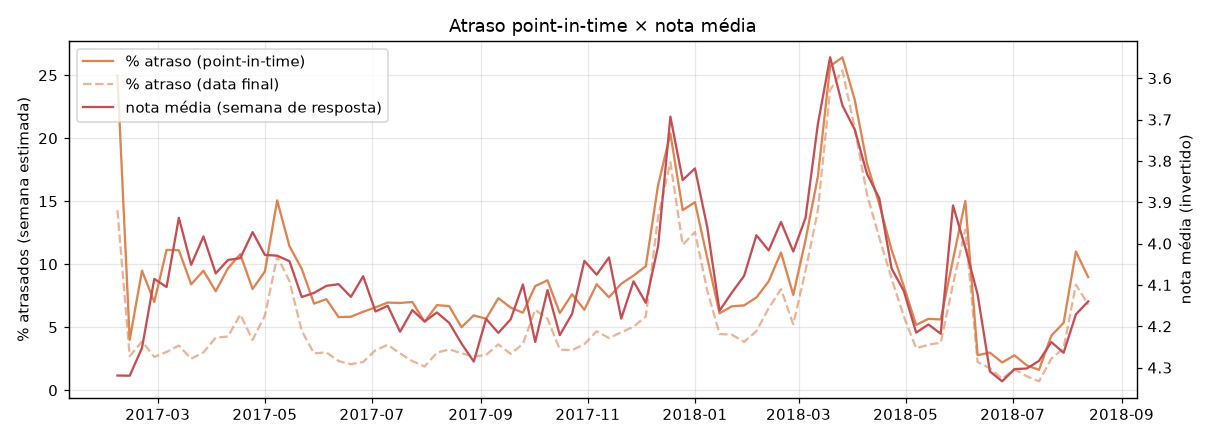
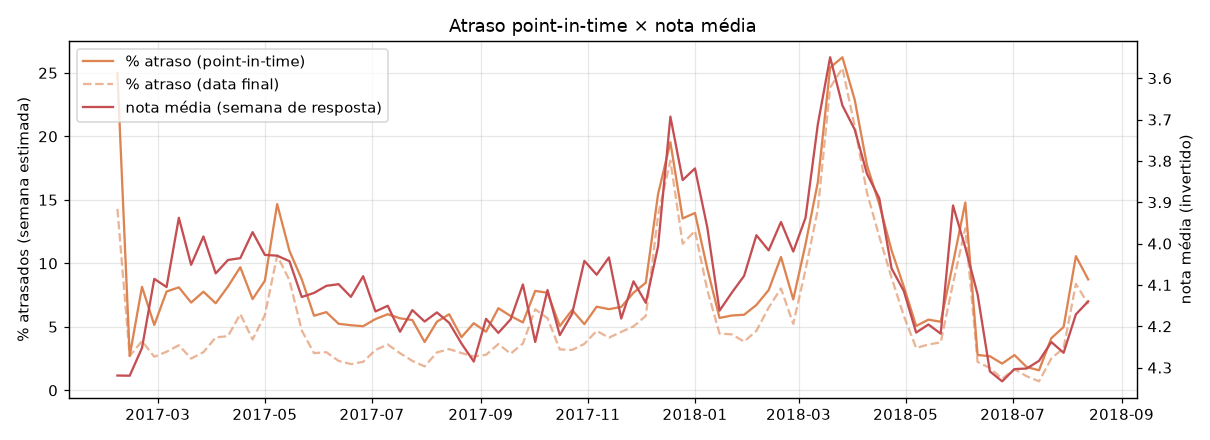
Fase 2: decisões do usuário e D-026 completo antes da Fase 7
- sinal de atraso point-in-time exclui os pedidos sem itens (D-030);
  relatório da Fase 1 regenerado (conclusão "mesma semana" mantida)
- relatório do gold set mostra a taxa de ambiguidade total e por split;
  itens ambíguos ficam fora das métricas principais (D-031)
- D-026: definição numérica de "acima do normal" e períodos congelados
  (calibração 2017, avaliação 2018)
- D-032: na Fase 6, avaliar classificar tudo com o LLM (retomável, cache)

diff --git a/src/data/stats.py b/src/data/stats.py
@@ -430,7 +430,8 @@ def main() -> None:
         f"### 9.1 Semanas com taxa nacional de atraso ≥ 2× a mediana ({pct(base)})",
         "",
         "Atraso **point-in-time** (seção 11): coorte com data estimada na semana, conhecida "
-        "ao fim dela; pedidos nunca entregues contam como atrasados. Semanas com ≥ 200 "
+        "ao fim dela; pedidos nunca entregues contam como atrasados e pedidos sem itens "
+        "registrados ficam fora (D-030). Semanas com ≥ 200 "
         "pedidos vencidos; nota média e fração de notas ≤ 2 das avaliações respondidas na "
         "mesma semana. As seções 9.2 a 9.4 usam `orders.is_late` (data final de entrega): "
         "são descrições retrospectivas, não sinais do backtest.",
@@ -619,7 +620,8 @@ def _pit_section(
         "estimada de t a t + 6, avaliada em t + 7 dias, usando só entregas anteriores a esse "
         "instante. Para essa coorte o atraso já está decidido em t + 7 (o dia estimado passou), "
         "então a diferença para a série pela data final está no denominador: pedidos nunca "
-        "entregues contam como atrasados em vez de ficarem de fora.",
+        "entregues contam como atrasados em vez de ficarem de fora. Pedidos sem itens "
+        "registrados (artefato do dataset) são excluídos do sinal (D-030).",
         "",
         f"- Diferença point-in-time − data final, por semana: média {diff_pp.mean():+.2f} p.p., "
         f"máxima {diff_pp.max():+.2f} p.p.; correlação entre as séries: {corr_ff:.3f}.",

diff --git a/src/labeling/report.py b/src/labeling/report.py
@@ -27,6 +27,17 @@ def score_weights(sample: pd.DataFrame, population_share: pd.Series) -> pd.Serie
     return (population_share / sample_share).rename("peso")
 
 
+def ambiguity_line(df: pd.DataFrame) -> str:
+    """Contagem e taxa de ambiguidade no total e por split."""
+    amb = df["causa"] == AMBIGUOUS
+    parts = [f"{int(amb.sum())} de {len(df)} ({pct(amb.mean())})"]
+    for split in ("dev", "test"):
+        m = df["split"] == split
+        if m.any():
+            parts.append(f"{split} {int(amb[m].sum())}/{int(m.sum())} ({pct(amb[m].mean())})")
+    return "; ".join(parts)
+
+
 def class_table(df: pd.DataFrame, weights: pd.Series) -> pd.DataFrame:
     """Contagem por classe e split, mais a proporção reponderada (todos os itens não ambíguos)."""
     order = [*CAUSES, AMBIGUOUS]
@@ -93,7 +104,8 @@ def main() -> None:
         "_Gerado por `python -m src.labeling.report`. Não edite à mão._",
         "",
         f"- Rotulados: **{len(df)} de {len(sample)}** (faltam {missing}).",
-        f"- Ambíguos / não sei: {int((df['causa'] == AMBIGUOUS).sum())}.",
+        f"- Ambíguos / não sei: {ambiguity_line(df)}. Ficam fora das métricas principais e "
+        "são reportados à parte (D-028).",
         f"- Classes com poucos exemplos (< {FEW_DEV} no dev ou < {FEW_TEST} no test): "
         f"{', '.join(f'`{c}`' for c in few) or 'nenhuma'}.",
         "",

diff --git a/tests/test_point_in_time.py b/tests/test_point_in_time.py
@@ -2,6 +2,9 @@
 
 from __future__ import annotations
 
+import sqlite3
+from pathlib import Path
+
 import pandas as pd
 import pytest
 
@@ -102,3 +105,16 @@ def test_weekly_rate_by_group() -> None:
     out = weekly_due_late_rate(df, ["2018-03-05"], group_col="customer_state")
     rates = dict(zip(out["customer_state"], out["late_rate"], strict=True))
     assert rates == {"RJ": 0.0, "SP": 0.5}
+
+
+def test_load_orders_excludes_orders_without_items(tmp_path: Path) -> None:
+    from src.data.build import build_tables
+    from src.data.database import write_database
+    from src.data.point_in_time import load_orders
+    from tests.test_data import make_raw
+
+    db = tmp_path / "radar.db"
+    write_database(build_tables(make_raw()), db)  # o3 não tem itens
+    df = load_orders(sqlite3.connect(db))
+    assert sorted(df["order_id"]) == ["o1", "o2"]
+    assert pd.api.types.is_datetime64_any_dtype(df["estimated_delivery_date"])

diff --git a/src/data/point_in_time.py b/src/data/point_in_time.py
@@ -26,10 +26,15 @@ LATE_STATUSES = (DELIVERED_LATE, OPEN_LATE)
 
 
 def load_orders(con: sqlite3.Connection) -> pd.DataFrame:
-    """Colunas necessárias do banco, com datas convertidas."""
+    """Pedidos que entram no sinal, com datas convertidas.
+
+    Exclui pedidos sem itens registrados (775 no banco, 686 na janela de análise; D-030): são
+    um artefato do dataset, quase todos `unavailable`, que nunca podem ser entregues. Os itens
+    são registrados na compra, então o filtro não usa informação futura.
+    """
     df = pd.read_sql(
         "SELECT order_id, customer_state, purchase_ts, delivered_customer_ts, "
-        "estimated_delivery_date FROM orders",
+        "estimated_delivery_date FROM orders WHERE n_items > 0",
         con,
     )
     for col in ("purchase_ts", "delivered_customer_ts", "estimated_delivery_date"):

diff --git a/tests/test_labeling.py b/tests/test_labeling.py
@@ -181,3 +181,12 @@ def test_report_reweights_by_population_score_share() -> None:
     assert t.loc["atraso_entrega", "% reponderado"] == "33.3%"
     assert t.loc["elogio", "% reponderado"] == "66.7%"
     assert t.loc["atraso_entrega", "área (D-027)"] == "logistica"
+
+
+def test_report_ambiguity_rate_overall_and_by_split() -> None:
+    from src.labeling.report import ambiguity_line
+
+    df = pd.DataFrame(
+        {"split": ["dev", "dev", "test", "test"], "causa": [AMBIGUOUS, "elogio", "elogio", "outro"]}
+    )
+    assert ambiguity_line(df) == "1 de 4 (25.0%); dev 1/2 (50.0%); test 0/2 (0.0%)"

diff --git a/docs/decisoes.md b/docs/decisoes.md
@@ -312,23 +312,26 @@ Números citados abaixo vêm de `reports/fase1_dados.md` (`python -m src.data.st
   - na série semanal (gráfico e tabela 9.1), que foi trocada pela versão point-in-time.
 - **Diferença entre as séries.** Para a coorte da semana estimada, o atraso já está decidido
   em *t* + 7. As duas séries só diferem no denominador: na point-in-time, pedidos nunca
-  entregues contam como atrasados. Diferença média de +3,19 p.p. por semana, máxima de
-  +10,71 p.p., correlação de 0,948 (`reports/fase1_dados.md`, seção 11).
+  entregues contam como atrasados.
+  - Já com a exclusão de D-030: diferença média de +2,38 p.p. por semana, máxima de
+    +10,71 p.p., correlação de 0,967 (`reports/fase1_dados.md`, seção 11).
+  - Antes da exclusão: +3,19 p.p. de média e correlação de 0,948.
 - **A conclusão "mesma semana" se mantém e fica mais forte.** Nos 3 eventos, a menor nota
   média e a maior fração de notas ≤ 2 caem na mesma semana do pico de atraso point-in-time
   (dez/2017) ou uma semana antes (mar–abr/2018 e mai–jun/2018). A correlação mais negativa
-  entre atraso em *t* e nota em *t* + *k* está em *k* = −1 (−0,765), praticamente igual a
-  *k* = 0 (−0,757). No agregado nacional, a nota não atrasa em relação ao sinal objetivo.
+  entre atraso em *t* e nota em *t* + *k* está em *k* = −1 (−0,772), próxima de *k* = 0
+  (−0,744); antes de D-030, eram −0,765 e −0,757. No agregado nacional, a nota não atrasa
+  em relação ao sinal objetivo.
   Hipótese não verificada: avaliações de pedidos atrasados de coortes anteriores chegam
   enquanto a coorte da semana ainda está vencendo.
-- **Ponto em aberto, decisão do usuário:**
+- **Ponto que estava em aberto, resolvido em D-030:**
   - Os pedidos nunca entregues incluem 686 sem itens registrados (artefato do dataset, quase
     todos `unavailable`) e cancelados.
   - Eles são 3% a 7% da coorte em 2017 e 1,4% a 2,8% em 2018, o que eleva o nível da série
     em 2017.
   - **Proposta:** excluir do sinal os pedidos sem itens. Como os itens são registrados na
     compra, isso não gera vazamento.
-  - Não foi aplicado sem aprovação.
+  - Aprovado e aplicado (D-030).
 
 ### D-026 · Definição de incidente e linhas de base, fixadas antes da Fase 7
 Escrita antes de existir qualquer detector. Qualquer mudança posterior exige nova entrada
@@ -341,29 +344,72 @@ com o motivo e os resultados antes e depois da mudança.
 - Usar o volume da janela inteira é uma escolha retrospectiva. Ela afeta quais segmentos são
   monitorados, não quando eles alertam.
 
-**Períodos:**
-- Semanas de 2017-02-06 a 2018-08-13, fim da série de atraso sem censura (D-020).
-- Calibração: 2017-02-06 a 2017-10-30. Avaliação: 2017-11-06 a 2018-08-13.
-- Os limiares de todos os métodos são escolhidos só na calibração.
+**Congelamento.** Versão final registrada em 2026-10-18, antes de existir qualquer detector.
+Os parâmetros abaixo são fixos: não são ajustados em nenhum período, nem de calibração, nem
+de avaliação. Uma versão anterior desta entrada usava outro corte de períodos (calibração até
+2017-10-30); foi trocada antes de qualquer detector existir, pelo motivo explicado em
+"Períodos".
+
+**Períodos** (fixos; não serão alterados depois de ver resultados):
+
+| Período | Semanas (segunda-feira) | Uso |
+|---|---|---|
+| Calibração | 2017-02-06 a 2017-12-25 (47 semanas) | ajustar limiares e hiperparâmetros do detector e das linhas de base |
+| Avaliação | 2018-01-01 a 2018-08-13 (33 semanas) | medir recall, antecedência e falsos alarmes; nada é ajustado aqui |
+
+- **Por que o corte por ano:** a versão anterior (calibração até 2017-10-30) foi escolhida
+  sabendo onde caíam os eventos vistos na Fase 1. O corte por ano não depende dessa
+  informação. Consequência aceita: o evento de dez/2017 fica na calibração.
+- **O fim** em 2018-08-13 é o da série de atraso sem censura (D-020).
+- **Incidente que cruza o corte** pertence ao período da sua semana de início. Incidentes
+  iniciados na calibração ficam fora das métricas de avaliação. As semanas deles que caem em
+  2018 também não contam para falsos alarmes: alertas ali não são falsos nem acertos.
+- **Histórico:** detectores e linhas de base podem usar semanas de calibração como histórico
+  ao rodar na avaliação, sempre point-in-time.
+- **O que é escolhido só na calibração:** limiares, comprimento de janela, método estatístico
+  e quais causas compõem cada sinal. O conjunto de avaliação é usado uma única vez, ao final
+  da Fase 7.
 
 **Gabarito × detectores.** Os rótulos de incidente são gabarito: podem usar o histórico
 inteiro, porque nenhum detector os vê. Detectores e linhas de base usam só dados
-point-in-time (D-019, D-025).
+point-in-time (D-019, D-025, D-030).
 
-**Semana anômala** (regra comum), para uma série de proporção *p* com *n* observações na
-semana *t* do segmento *s*:
-- referência *b* = mediana de *p* nas 26 semanas anteriores a *t*, com no mínimo 8 semanas
-  com dados;
-- a semana é anômala se *n* ≥ *n_min*, *p* > max(2·*b*, *b* + 5 p.p.) e o limite inferior do
-  intervalo de Wilson de 95% de *p* > *b*.
+**"Acima do normal": definição numérica.** Para uma série de proporção *p* com *n*
+observações na semana *t* do segmento *s*:
+
+1. **Referência:** *b* = mediana de *p* nas semanas *u* ∈ [*t* − 26, *t* − 1] com *n* ≥
+   *n_min*.
+   - Exige no mínimo 8 dessas semanas; sem elas, a semana *t* não pode ser anômala.
+   - Como só olha para trás, a referência também é point-in-time.
+2. **Anômala:** a semana é anômala se valem as três condições:
+   - *n* ≥ *n_min*;
+   - *p* > max(2·*b*, *b* + 0,05);
+   - *L* > *b*, em que *L* é o limite inferior do intervalo de Wilson de 95% para *p*:
+
+     *L* = (*p* + *z*²/2*n* − *z*·√(*p*(1 − *p*)/*n* + *z*²/4*n*²)) / (1 + *z*²/*n*),
+     com *z* = 1,96.
+3. **Volume baixo:** semanas com *n* < *n_min* não são anômalas e contam como semanas normais
+   para a regra de junção.
+
+Limiar de *p* conforme a referência (antes do teste de Wilson):
+
+| *b* | 0% | 3% | 5% | 10% | 20% |
+|---|---|---|---|---|---|
+| limiar | 5% | 8% | 10% | 20% | 40% |
+
+Por que esses parâmetros (escolhidos a priori, não ajustados):
+- **2× com piso de 5 p.p.:** exige um efeito relativo e um efeito absoluto mínimos.
+- **Wilson:** evita disparos por volume baixo.
+- **Mediana de 26 semanas:** cobre meio ano de "normal" e resiste a incidentes de até cerca
+  de 12 semanas.
 
 **Incidente:** sequência de ≥ 2 semanas anômalas consecutivas, do mesmo segmento e tipo.
-Sequências separadas por uma única semana normal são unidas. O início é a primeira semana; o
-fim, a última.
+Sequências separadas por uma única semana não anômala são unidas. O início é a primeira
+semana anômala; o fim, a última.
 
 | Tipo | *p* | *n* | *n_min* |
 |---|---|---|---|
-| A — atraso | taxa de atraso point-in-time da coorte com data estimada na semana (D-025) | pedidos da coorte | 30 |
+| A — atraso | taxa de atraso point-in-time da coorte com data estimada na semana (D-025, D-030) | pedidos da coorte | 30 |
 | B — insatisfação não ligada a atraso | fração de notas ≤ 2 entre as avaliações respondidas na semana de pedidos entregues no prazo (`is_late = 0`; retrospectivo, permitido no gabarito) | essas avaliações | 20 |
 
 **Métodos comparados.** Todos usam a mesma regra de alerta e são calibrados para o mesmo
@@ -378,12 +424,13 @@ orçamento de falsos alarmes:
   - No tipo B, mostra o que um monitor de logística não vê.
 
 **Orçamento de falsos alarmes:**
-- Na calibração, cada método usa o limiar mais sensível que mantém no máximo 1 falso alarme
-  por semana, somando todos os segmentos monitorados.
+- Na calibração (2017), cada método usa o limiar mais sensível que mantém no máximo 1
+  falso alarme por semana, somando todos os segmentos monitorados. Esse limiar é levado sem
+  mudança para a avaliação (2018).
 - Também é reportada a curva recall × falsos alarmes por semana para vários limiares, para
   que a conclusão não dependa de um único ponto.
 
-**Métricas** (período de avaliação):
+**Métricas** (só no período de avaliação, 2018):
 - **Casamento:** um alerta do método *m* no segmento *s* na semana *w* casa com o incidente
   *i* de *s* se *w* ∈ [início − 4, fim]. A semana de detecção *d_m(i)* é a do primeiro alerta
   que casa.
@@ -457,8 +504,7 @@ A área não é rotulada nem prevista; é derivada da causa (`src/taxonomy.py`, 
 **Uso nas métricas:**
 - As métricas são reponderadas pela distribuição real das notas entre os comentários. O peso
   de cada nota é a participação dela no universo dividida por 0,2 (`src/labeling/report.py`).
-- **Proposta:** itens "ambíguo" ficam fora das métricas principais e são reportados à parte.
-  O usuário pode mudar isso.
+- Itens "ambíguo" ficam fora das métricas principais e são reportados à parte (D-031).
 
 **Versionamento:** `data/gold/` é versionado, com IDs e rótulos e sem textos.
 
@@ -467,3 +513,33 @@ A área não é rotulada nem prevista; é derivada da causa (`src/taxonomy.py`, 
   classificador.
 - **Risco a medir na Fase 3:** o modelo pode usar a nota como atalho (por exemplo, nota 5 →
   `elogio`), errando casos como o extravio com nota 5 visto na amostra da taxonomia.
+
+### D-030 · Pedidos sem itens ficam fora do sinal de atraso
+- **Decidido pelo usuário (2026-10-18).** O sinal point-in-time (`load_orders` em
+  `src/data/point_in_time.py`) exclui os pedidos com `n_items = 0`. São 775 no banco e 686 na
+  janela de análise: 599 `unavailable`, 82 `canceled` e 5 `created`.
+- **Motivo:** são um artefato do dataset (o pedido não tem item registrado) e nunca podem ser
+  entregues; sem a exclusão, inflavam a série de 2017. Os itens são registrados na compra,
+  então o filtro não usa informação futura. Há teste para isso.
+- **Efeito:** ver os números de D-025.
+- **O que não muda:** as tabelas retrospectivas (`orders.is_late`) e o banco não são
+  afetados; os pedidos continuam lá.
+
+### D-031 · Itens "ambíguo" no gold set
+- **Decidido pelo usuário (2026-10-18).** Itens rotulados "ambíguo / não sei" ficam fora das
+  métricas principais do classificador (Fases 3 a 5) e são reportados à parte.
+- **O que é reportado:**
+  - a taxa de ambiguidade, no total e por split (`src/labeling/report.py`);
+  - na avaliação, o que cada classificador previu nesses itens.
+
+### D-032 · Nota para a Fase 6: avaliar classificar tudo com o LLM
+- Com 0,47 s por chamada sem raciocínio (D-024), classificar os 41.281 comentários com o LLM
+  ficaria na ordem de horas, não de dias.
+- **Na Fase 6, avaliar essa opção contra a híbrida de D-015.** Requisitos:
+  - execução retomável, com o cache em disco como ponto de retomada: cada item já
+    classificado é um acerto de cache;
+  - estimativa de tempo com os segundos por chamada medidos no dev com o prompt real, mais o
+    pior caso de 2 tentativas por item;
+  - OK do usuário antes de rodar (regra das 50 chamadas).
+- A escolha leva em conta a qualidade medida na Fase 5. Se o LLM não for melhor que o
+  baseline no test set, rodá-lo em tudo não se justifica.

diff --git a/reports/fase1_dados.md b/reports/fase1_dados.md
@@ -184,19 +184,24 @@ Para cada tipo de segmento: quantos segmentos têm volume médio semanal ≥ k n
 
 Exploração descritiva para escolher estudos de caso; **não** é a definição de incidente do backtest (Fase 7). Taxa de atraso por semana da data estimada de entrega (o atraso só é observável depois dela), até a semana 2018-08-13 (seção 6.1).
 
-### 9.1 Semanas com taxa nacional de atraso ≥ 2× a mediana (7.6%)
+### 9.1 Semanas com taxa nacional de atraso ≥ 2× a mediana (6.6%)
 
-Atraso **point-in-time** (seção 11): coorte com data estimada na semana, conhecida ao fim dela; pedidos nunca entregues contam como atrasados. Semanas com ≥ 200 pedidos vencidos; nota média e fração de notas ≤ 2 das avaliações respondidas na mesma semana. As seções 9.2 a 9.4 usam `orders.is_late` (data final de entrega): são descrições retrospectivas, não sinais do backtest.
+Atraso **point-in-time** (seção 11): coorte com data estimada na semana, conhecida ao fim dela; pedidos nunca entregues contam como atrasados e pedidos sem itens registrados ficam fora (D-030). Semanas com ≥ 200 pedidos vencidos; nota média e fração de notas ≤ 2 das avaliações respondidas na mesma semana. As seções 9.2 a 9.4 usam `orders.is_late` (data final de entrega): são descrições retrospectivas, não sinais do backtest.
 
 | semana | pedidos_vencidos | frac_atraso | nota_média | frac_neg |
 |---|---|---|---|---|
-| 2017-12-11 | 1836 | 16.3% | 4.01 | 16.7% |
-| 2017-12-18 | 2224 | 20.4% | 3.69 | 24.5% |
-| 2018-03-12 | 2260 | 16.9% | 3.71 | 24.1% |
-| 2018-03-19 | 2134 | 25.7% | 3.55 | 27.0% |
-| 2018-03-26 | 1491 | 26.4% | 3.67 | 25.5% |
-| 2018-04-02 | 1713 | 23.1% | 3.72 | 24.0% |
-| 2018-04-09 | 1789 | 18.0% | 3.83 | 20.8% |
+| 2017-05-08 | 641 | 14.7% | 4.03 | 15.7% |
+| 2017-12-11 | 1818 | 15.5% | 4.01 | 16.7% |
+| 2017-12-18 | 2201 | 19.5% | 3.69 | 24.5% |
+| 2017-12-25 | 1463 | 13.5% | 3.85 | 20.8% |
+| 2018-01-01 | 1246 | 14.0% | 3.82 | 21.5% |
+| 2018-03-12 | 2245 | 16.4% | 3.71 | 24.1% |
+| 2018-03-19 | 2125 | 25.4% | 3.55 | 27.0% |
+| 2018-03-26 | 1487 | 26.2% | 3.67 | 25.5% |
+| 2018-04-02 | 1709 | 22.9% | 3.72 | 24.0% |
+| 2018-04-09 | 1783 | 17.7% | 3.83 | 20.8% |
+| 2018-04-16 | 1590 | 14.7% | 3.89 | 20.0% |
+| 2018-06-04 | 1839 | 14.8% | 4.01 | 15.8% |
 
 ### 9.2 Taxa de atraso (%) por estado do cliente e mês da data estimada
 
@@ -260,10 +265,10 @@ Busca por expressões regulares no texto (não é classificação nem rótulo), 
 
 **Auditoria.** `orders.is_late` usa a data final de entrega. Foi usado nas seções 6 (nota por situação de entrega), 9.2–9.4 (estado e vendedor por mês) e 10 (desfecho dos textos “não recebi”), que são descrições retrospectivas. A série semanal da Fase 1 (gráfico e tabela 9.1) também usava `is_late`, indexada pela semana estimada; agora usa a versão point-in-time.
 
-**Versão point-in-time** (`src/data/point_in_time.py`): para a semana t, coorte com data estimada de t a t + 6, avaliada em t + 7 dias, usando só entregas anteriores a esse instante. Para essa coorte o atraso já está decidido em t + 7 (o dia estimado passou), então a diferença para a série pela data final está no denominador: pedidos nunca entregues contam como atrasados em vez de ficarem de fora.
+**Versão point-in-time** (`src/data/point_in_time.py`): para a semana t, coorte com data estimada de t a t + 6, avaliada em t + 7 dias, usando só entregas anteriores a esse instante. Para essa coorte o atraso já está decidido em t + 7 (o dia estimado passou), então a diferença para a série pela data final está no denominador: pedidos nunca entregues contam como atrasados em vez de ficarem de fora. Pedidos sem itens registrados (artefato do dataset) são excluídos do sinal (D-030).
 
-- Diferença point-in-time − data final, por semana: média +3.19 p.p., máxima +10.71 p.p.; correlação entre as séries: 0.948.
-- Atrasados ainda em aberto ao fim da semana estimada: 7305 de 9113 (80.2%).
+- Diferença point-in-time − data final, por semana: média +2.38 p.p., máxima +10.71 p.p.; correlação entre as séries: 0.967.
+- Atrasados ainda em aberto ao fim da semana estimada: 6619 de 8427 (78.5%).
 - Defasagem com a correlação mais negativa entre atraso e nota média: k = -1 (point-in-time) e k = 0 (data final).
 
 Picos dentro de cada evento (semana, segunda-feira):
@@ -278,12 +283,12 @@ Correlação entre o atraso da semana t e as avaliações respondidas em t + k:
 
 | atraso | k (semanas) | corr(atraso_t, nota média_t+k) | corr(atraso_t, frac. nota ≤ 2_t+k) |
 |---|---|---|---|
-| point-in-time | -2 | -0.574 | 0.560 |
-| point-in-time | -1 | -0.765 | 0.767 |
-| point-in-time | 0 | -0.757 | 0.762 |
-| point-in-time | 1 | -0.666 | 0.679 |
-| point-in-time | 2 | -0.473 | 0.476 |
-| point-in-time | 3 | -0.350 | 0.344 |
+| point-in-time | -2 | -0.595 | 0.589 |
+| point-in-time | -1 | -0.772 | 0.784 |
+| point-in-time | 0 | -0.744 | 0.756 |
+| point-in-time | 1 | -0.645 | 0.664 |
+| point-in-time | 2 | -0.452 | 0.459 |
+| point-in-time | 3 | -0.331 | 0.328 |
 | data final | -2 | -0.590 | 0.597 |
 | data final | -1 | -0.759 | 0.779 |
 | data final | 0 | -0.789 | 0.810 |
